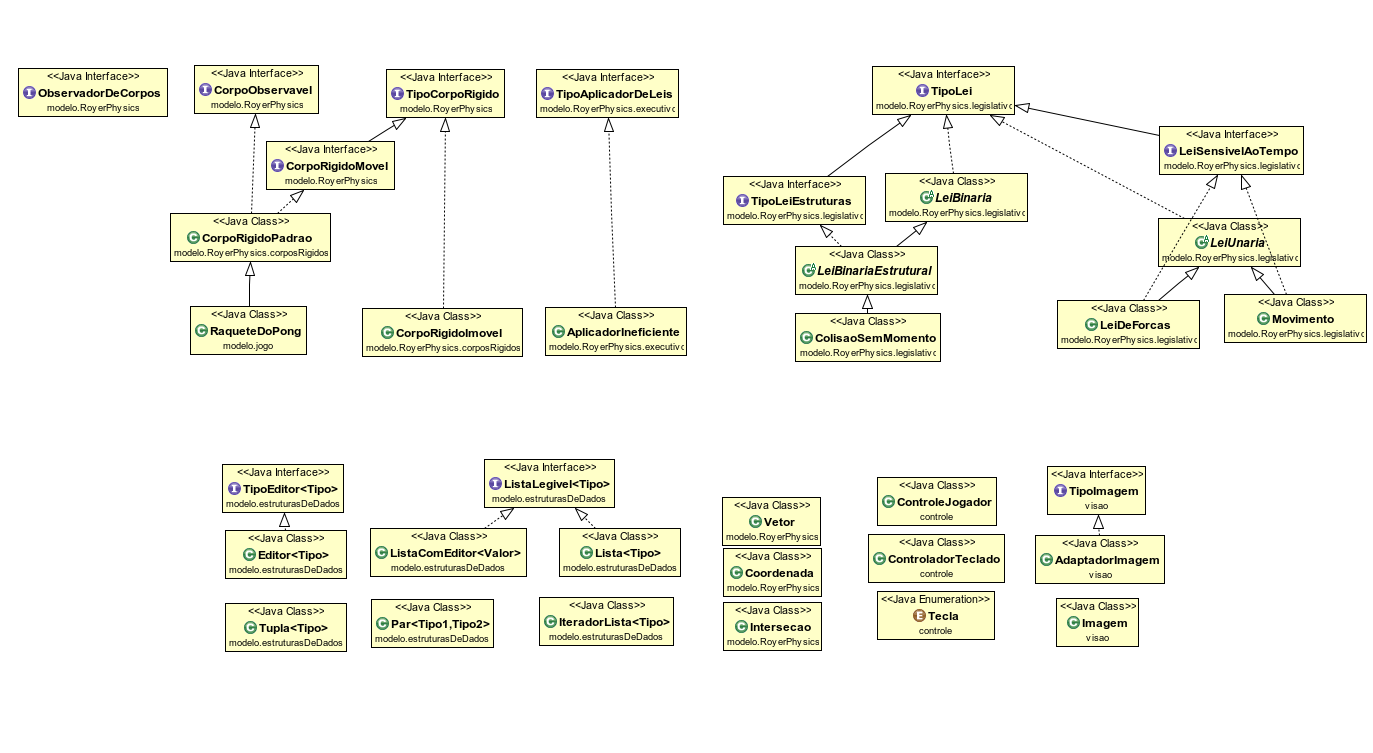
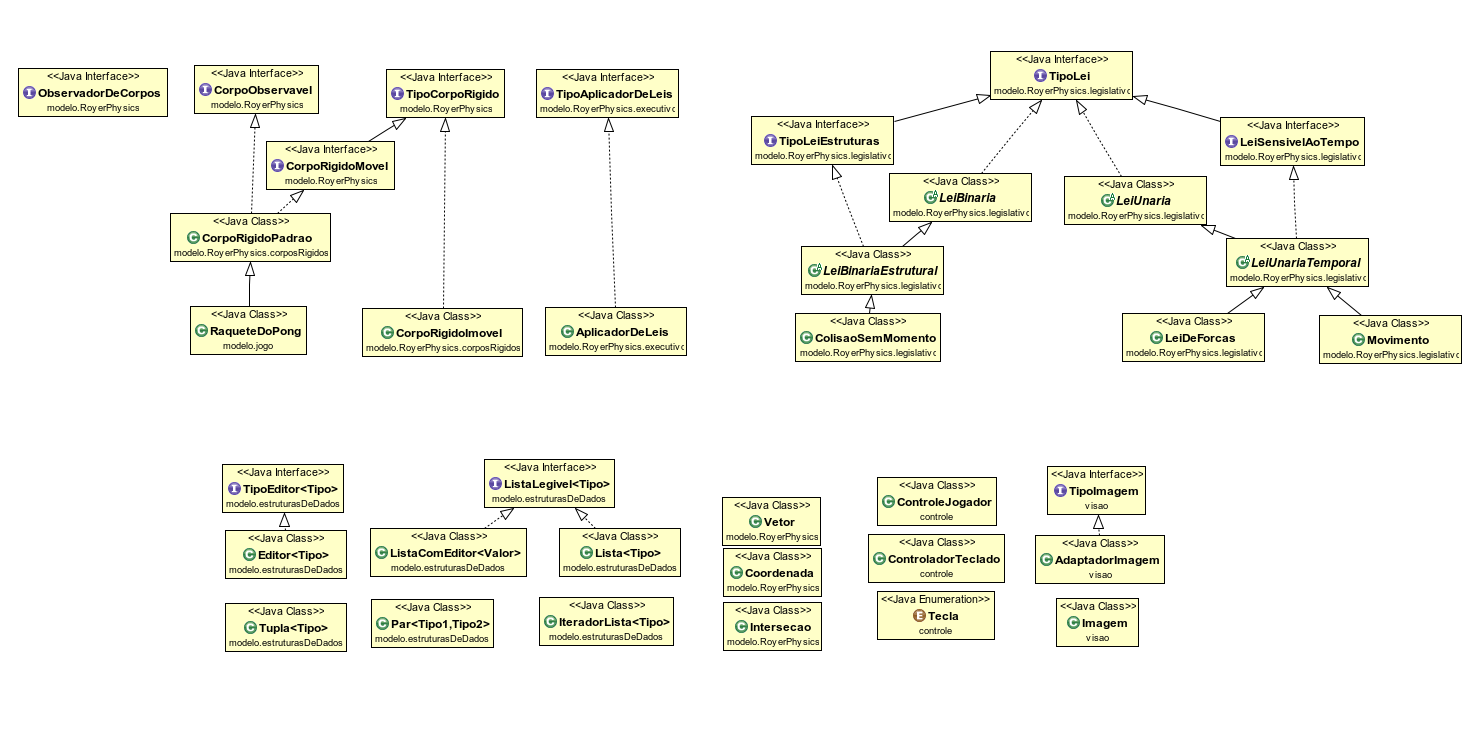
INE5404: Adicionada versão 0.3.

Changed region(s): [[0.0, 0.0916, 1.0, 0.4887], [0.1529, 0.6109, 0.8565, 0.8858], [0.6118, 0.0611, 0.7953, 0.1833]]

diff --git a/INE5404/src/modelo/fabricas/FabricaDeObjetos.java b/INE5404/src/modelo/fabricas/FabricaDeObjetos.java
@@ -11,6 +11,7 @@ import modelo.RoyerPhysics.executivo.AplicadorDeLeis;
 import modelo.RoyerPhysics.executivo.TipoAplicadorDeLeis;
 import modelo.RoyerPhysics.legislativo.ColisaoSemMomento;
 import modelo.RoyerPhysics.legislativo.LeiDeForcas;
+import modelo.RoyerPhysics.legislativo.LeiUnariaTemporal;
 import modelo.RoyerPhysics.legislativo.Movimento;
 import modelo.jogo.RaqueteDoPong;
 
@@ -109,7 +110,7 @@ public class FabricaDeObjetos {
         controlador.adicionarCorpoRigido(pC);
         controlador.adicionarCorpoRigido(pD);
 
-        Movimento mov = new Movimento(tempo);
+        LeiUnariaTemporal mov = new Movimento(tempo);
         ColisaoSemMomento c = new ColisaoSemMomento();
         LeiDeForcas f = new LeiDeForcas(tempo);
         controlador.adicionarLei(c);

diff --git a/INE5404/src/modelo/RoyerPhysics/legislativo/Movimento.java b/INE5404/src/modelo/RoyerPhysics/legislativo/Movimento.java
@@ -9,9 +9,7 @@ import modelo.RoyerPhysics.CorpoRigidoMovel;
  * @author Tiago Royer
  * 
  */
-public class Movimento extends LeiUnaria implements LeiSensivelAoTempo {
-
-    private double _tempo = 1;
+public class Movimento extends LeiUnariaTemporal {
 
     /**
      * Cria uma lei de movimento.
@@ -20,17 +18,12 @@ public class Movimento extends LeiUnaria implements LeiSensivelAoTempo {
      *            Tempo que deve passar entre as atualizações.
      */
     public Movimento(double tempo) {
-        _tempo = tempo;
+        super(tempo);
     }
 
     @Override
     public void aplicarLeiA(CorpoRigidoMovel c) {
         c.mover(_tempo);
-    }
-
-    @Override
-    public void informarTempo(double tempo) {
-        _tempo = tempo;
     }
 
 }

diff --git a/INE5404/src/modelo/RoyerPhysics/legislativo/LeiUnariaTemporal.java b/INE5404/src/modelo/RoyerPhysics/legislativo/LeiUnariaTemporal.java
@@ -1,0 +1,27 @@
+package modelo.RoyerPhysics.legislativo;
+
+import modelo.RoyerPhysics.CorpoRigidoMovel;
+
+/**
+ * Rerpesenta uma lei que é afetada pelo tempo.
+ * 
+ * @author Tiago Royer
+ *
+ */
+public abstract class LeiUnariaTemporal extends LeiUnaria implements LeiSensivelAoTempo{
+
+    protected double _tempo = 1;
+    
+    //TODO: documentar
+    public LeiUnariaTemporal(double tempo) {
+        _tempo = tempo;
+    }
+
+    @Override
+    public void informarTempo(double tempo) {
+        _tempo = tempo;
+    }
+    
+    protected abstract void aplicarLeiA(CorpoRigidoMovel c);
+
+}

diff --git a/INE5404/src/modelo/RoyerPhysics/legislativo/LeiDeForcas.java b/INE5404/src/modelo/RoyerPhysics/legislativo/LeiDeForcas.java
@@ -10,9 +10,7 @@ import modelo.RoyerPhysics.Vetor;
  * @author Tiago Royer
  * 
  */
-public class LeiDeForcas extends LeiUnaria implements LeiSensivelAoTempo {
-
-    private double _tempo;
+public class LeiDeForcas extends LeiUnariaTemporal {
 
     /**
      * Cria uma lei de forças.
@@ -21,7 +19,7 @@ public class LeiDeForcas extends LeiUnaria implements LeiSensivelAoTempo {
      *            Tempo que se passa ao atualizar as forças.
      */
     public LeiDeForcas(double tempo) {
-        _tempo = tempo;
+        super(tempo);
     }
 
     @Override
